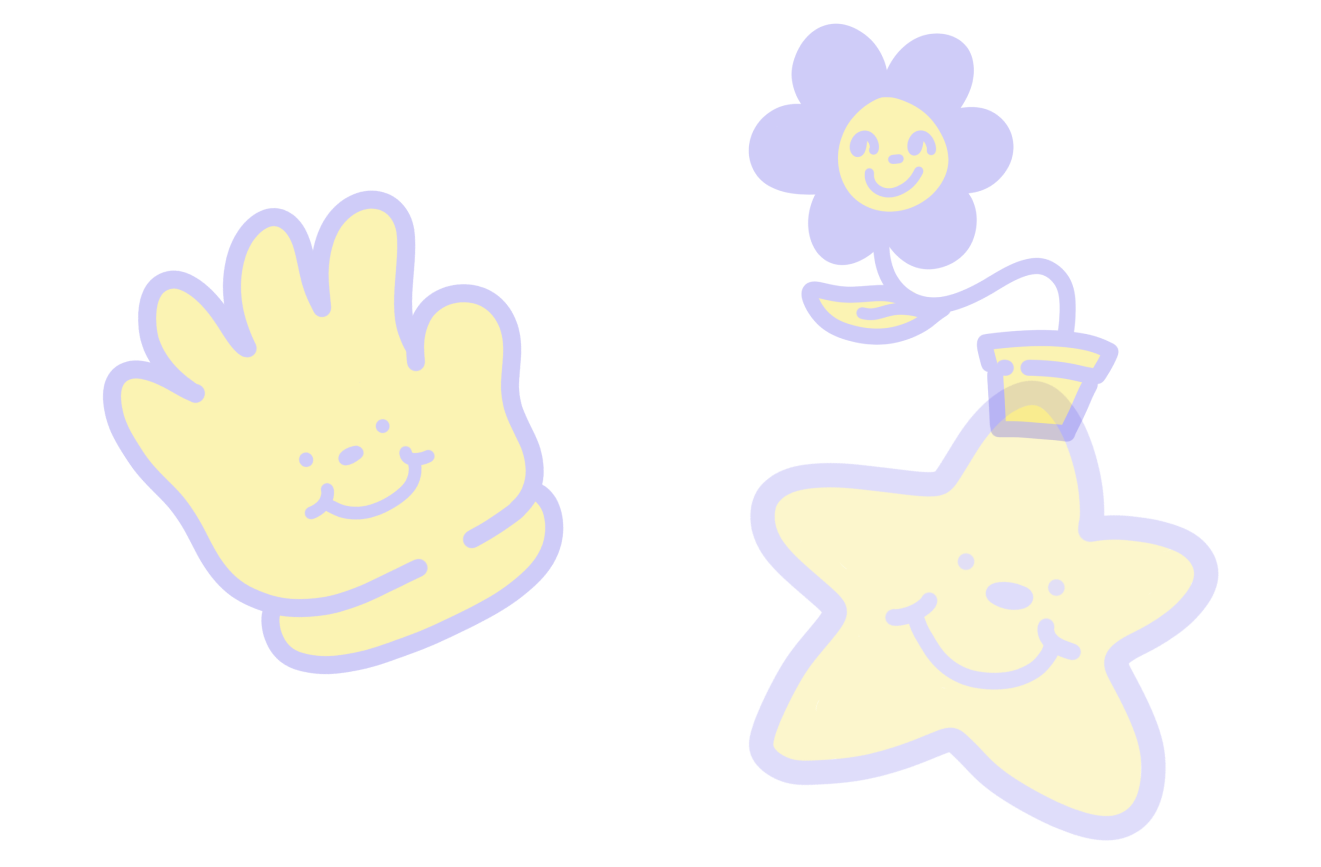
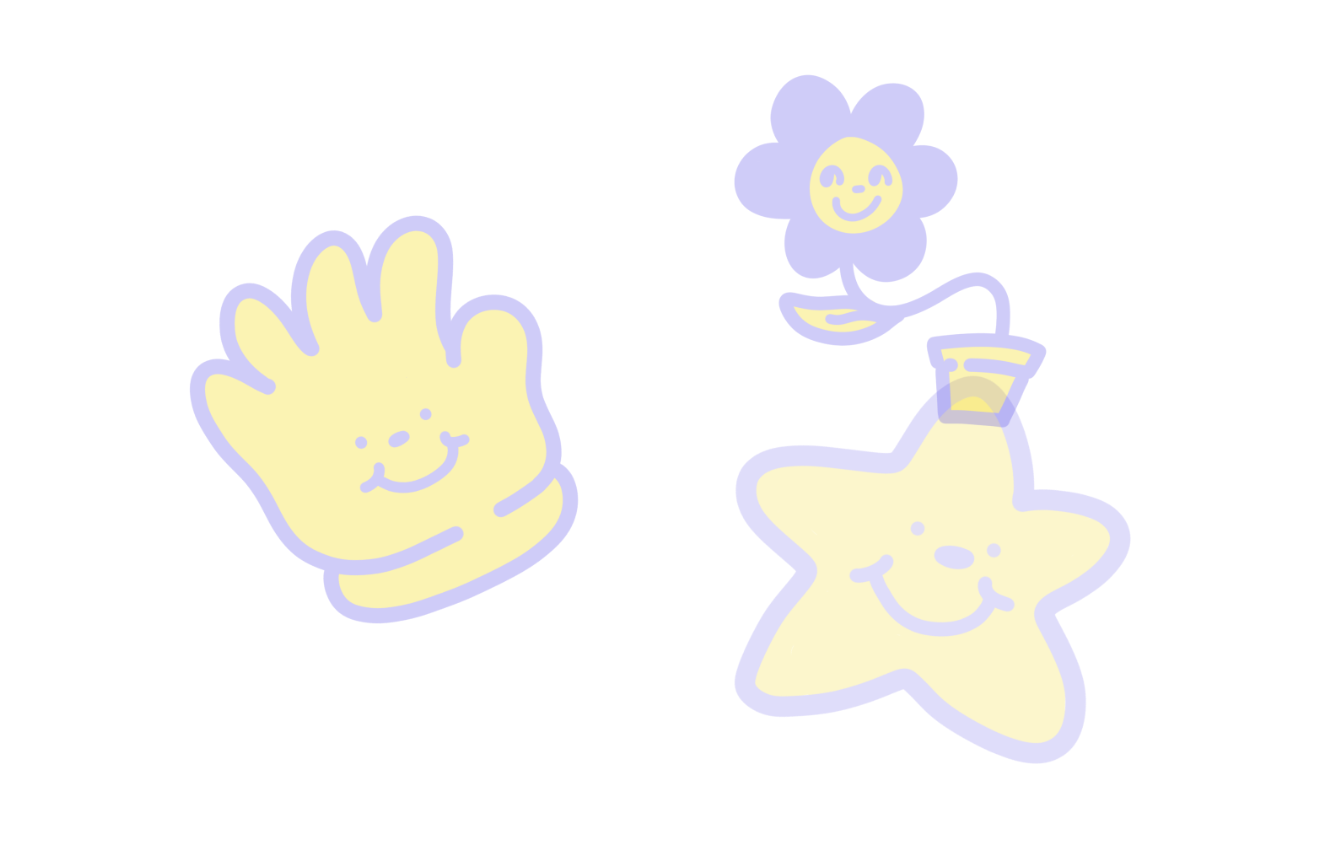
various updates, minor fixes

Changed region(s): [[0.5587, 0.0311, 0.9311, 0.9654], [0.0621, 0.218, 0.4345, 0.7785]]

diff --git a/src/Components/WI21/Articles/InterviewWithAmanda.css b/src/Components/WI21/Articles/InterviewWithAmanda.css
@@ -6,6 +6,7 @@
 
 .articleFont {
     font-family: Epilogue;
+    overflow: hidden;
 }
 .heart1{
     width: 100%;
@@ -32,7 +33,6 @@
 .testerDisc {
     max-width:75%;
     position:absolute;
-    margin-bottom:4rem;
 }
 .tester2 {
     background-image:url('../../../img/Issue3/flowerpot.png');
@@ -56,7 +56,6 @@
     z-index: 999;
     opacity: 17.5%;
     width: 35%;
-    height: 450%;
 }
 
 .star_background1{
@@ -180,6 +179,9 @@
     position:absolute;
 }
 @media (min-width:768px) {
+    .flower_background {
+        height: 80vh;
+    }
     .tinyImageBox {
         max-width:5%;
     }
@@ -237,6 +239,39 @@
     }
 }
 @media (max-width:767px) {
+    .flower_background {
+        height:50vh;
+        top: 15%;
+    }
+    .article_question1 {
+        font-size: .75rem !important;
+        font-weight: 900;
+        padding: 10px;
+        box-decoration-break: clone;
+        display: inline;
+        box-shadow: 0.25em 0 0 #EBD448, -0.25em 0 0 #EBD448;
+        background-color: #EBD448;
+        line-height: 3;
+        background-color: #EBD448;
+        color: #5F53E5;
+    }
+    .article_question2 {
+        font-size: .75rem !important;
+        background-color: #EBD448;
+        max-width: 80%;
+        padding: 10px;
+        color: #5F53E5;
+    }
+    .article_question3 {
+        font-size: .75rem !important;
+        padding: 10px;
+        box-decoration-break: clone;
+        display: inline;
+        box-shadow: 0.25em 0 0 #EBD448, -0.25em 0 0 #EBD448;
+        background-color: #EBD448;
+        line-height: 3;
+        color: #5F53E5;
+    }
     .rectangle_frame{
         position: absolute;
         top: 10% !important;
@@ -369,6 +404,7 @@
     padding-top:4rem;
     padding-bottom:4rem;
     color: white;
+    overflow: hidden;
 }
 .sixth_section {
     background: #FFFAF4;

diff --git a/src/Components/WI21/Articles/CommunityDesign.jsx b/src/Components/WI21/Articles/CommunityDesign.jsx
@@ -128,7 +128,7 @@ class CommunityDesign extends Component{
                                 <div className="linkDiskSecondary" 
                                     onMouseEnter={() => this.setDisc2(true)}
                                     onMouseLeave={() => this.setDisc2(false)}>
-                                    <img src={disc2} className="disc1" 
+                                    <img src={disc4} className="disc1" 
                                     />
                                     {this.state.showDisc2 && <Link to={{pathname: "/interview-with-amanda"}}><img src={smallArticle4} className="testerDisc"/></Link>}
                                 </div>
@@ -142,7 +142,7 @@ class CommunityDesign extends Component{
                                 <div className="linkDiskSecondary"
                                     onMouseEnter={() => this.setDisc4(true)}
                                     onMouseLeave={() => this.setDisc4(false)}>
-                                    <img src={disc4} className="disc1" 
+                                    <img src={disc3} className="disc1" 
                                     />
                                     {this.state.showDisc4 && <Link to={{pathname: "/EthicalDesign"}}><img src={smallArticle3} className="testerDisc"/></Link>}
                                 </div>

diff --git a/src/Components/WI21/Articles/InterviewWithAmanda.jsx b/src/Components/WI21/Articles/InterviewWithAmanda.jsx
@@ -151,7 +151,7 @@ class InterviewWithAmanda extends Component {
                                 </div>
                                 <div className="linkDiskSecondary" 
                                     onMouseEnter={() => this.setDisc2(true)}
-                                    onMouseLeave={() => this.setDisc2(false)}>
+                                   >
                                     <img src={disc2} className="disc1" 
                                     />
                                     {this.state.showDisc2 && <Link to={{pathname: "/CommunityDesign"}}><img src={smallArticle2} className="testerDisc"/></Link>}
@@ -166,7 +166,7 @@ class InterviewWithAmanda extends Component {
                                 <div className="linkDiskSecondary"
                                     onMouseEnter={() => this.setDisc4(true)}
                                     onMouseLeave={() => this.setDisc4(false)}>
-                                    <img src={disc4} className="disc1" 
+                                    <img src={disc3} className="disc1" 
                                     />
                                     {this.state.showDisc4 && <Link to={{pathname: "/EthicalDesign"}}><img src={smallArticle3} className="testerDisc"/></Link>}
                                 </div>

diff --git a/src/Components/WI21/Articles/EthicalDesign.jsx b/src/Components/WI21/Articles/EthicalDesign.jsx
@@ -177,7 +177,7 @@ class EthicalDesign extends Component {
                 </Row>
                 <Row className="introduction2 mobilePadding myTest">
                     <Col md={3}/>
-                    <Col md={1}><img src={glove} className="backgroundImageBox glove"/></Col>
+                    <Col md={1}><img src={glove} className="backgroundImageBox glove glove2"/></Col>
                     {/* Article Content Column   */}
                     <Col className="columnRight" xs={12} md={7}>
                         <Row className="articleText newQuestion">
@@ -234,7 +234,7 @@ class EthicalDesign extends Component {
                         </Row>
                     </Col>
                     {/* Seperator whitespace */}
-                    <Col md={1}><img src={cellphone} className="backgroundImageBox glove"/></Col>
+                    <Col md={1}><img src={cellphone} className="backgroundImageBox glove cellphone"/></Col>
                     {/* Article Content Column   */}
                     <Col className="columnRight" md={7}>
                         <Row className="articleText beginQuestion">

diff --git a/src/Components/WI21/Articles/EthicalDesign.css b/src/Components/WI21/Articles/EthicalDesign.css
@@ -13,8 +13,9 @@
 .testerDisc {
     max-width:75%;
     position:absolute;
-    margin-bottom:4rem;
+    padding-bottom:1rem;
 }
+
 .tester2 {
     background-image:url('../../../img/Issue3/flowerpot.png');
     background-size: cover;
@@ -33,7 +34,7 @@
     top: 0px;
     right: 0px;
     bottom: 0px;
-    left: 50%;
+    left: 45%;
     opacity: 17.5%;
     max-width: 100%;
 }
@@ -79,6 +80,16 @@
     position:absolute;
 }
 @media (min-width:768px) {
+    .flowerBackground {
+        height: 80vh;
+    }
+    .cellphone {
+        right: -5rem;
+        max-width: 250% !important;
+    }
+    .glove2 {
+        max-width: 150% !important;
+    }
     .tinyImageBox {
         max-width:5%;
     }
@@ -109,6 +120,22 @@
     }
 }
 @media (max-width:767px) {
+    .flowerBackground {
+        height:50vh;
+        top: 15%;
+    }
+    .starBackground {
+        height:50vh;
+        top:30%;
+        left: 15%;
+    }
+    .cellphone {
+        max-width: 50% !important;
+        top: -50%;
+    }
+    .glove2 {
+        top: -50%;
+    }
     .mobileHidden{
         visibility: hidden;
     }

diff --git a/src/Components/WI21/issue3_landing.jsx b/src/Components/WI21/issue3_landing.jsx
@@ -5,7 +5,7 @@ import { connect } from 'react-redux';
 import { setTheme } from '../../redux/actions';
 import './issue3_landing.css';
 import record_player from '../../../src/img/Issue3/record_player.png';
-import smallArticle1 from '../../../src/img/Issue3/smallArticle1.png';
+import smallArticle1 from '../../../src/img/Issue3/equitabledesigndisc2.png';
 import smallArticle2 from '../../../src/img/Issue3/smallArticle2.png';
 import smallArticle3 from '../../../src/img/Issue3/smallArticle3.png';
 import smallArticle4 from '../../../src/img/Issue3/smallArticle4.png';
@@ -29,7 +29,7 @@ class issue3_landing extends Component {
 
     render() {
         return (
-            <Container fluid className="articleFont">
+            <Container fluid className="art3Landing">
             <div className="issue3_background"/>
                 <Row>
                     <Col md={4} xs={12}>

diff --git a/src/Components/WI21/Articles/CommunityDesign.css b/src/Components/WI21/Articles/CommunityDesign.css
@@ -20,6 +20,7 @@
     background-color: black;
     padding-top: 3rem;
     padding-bottom: 3rem;
+    overflow: hidden;
 }
 
 .white_background{
@@ -122,21 +123,27 @@
     margin-left: auto;
     margin-right: auto;
 }
-
+@media (min-width:768px) {
+    .special {
+        font-size: 1.375rem;
+    }
+}
 @media (max-width:767px) {
     .center{
         text-align: left;
     }
     .special{
-        font-size: 1.5rem;
+        font-size: 1.5rem !important;
     }
     .community_design_font{
+        font-size:.75rem;
         padding-right: 2rem;
         padding-left: 2rem;
     }
     .community_design_font1{
         padding-right: 1rem;
         padding-left: 1rem;
+        font-size:.75rem;
     }
     .community_phone{
         left: 35%;

diff --git a/src/Components/WI21/Articles/EquitableDesign.jsx b/src/Components/WI21/Articles/EquitableDesign.jsx
@@ -150,7 +150,7 @@ class EquitableDesign extends Component {
                                 <div className="linkDiskSecondary"
                                     onMouseEnter={() => this.setDisc3(true)}
                                     onMouseLeave={() => this.setDisc3(false)}>
-                                    <img src={disc1} className="disc1" 
+                                    <img src={disc3} className="disc1" 
                                     />
                                     {this.state.showDisc3 && <Link to={{pathname: "/EthicalDesign"}}><img src={smallArticle3} className="testerDisc"/></Link>}
                                 </div>

diff --git a/src/Components/WI21/issue3_landing.css b/src/Components/WI21/issue3_landing.css
@@ -4,7 +4,11 @@
     -webkit-font-smoothing: antialiased;
     -moz-osx-font-smoothing: grayscale;
 }
+.art3Landing {
+    overflow: inherit;
+    font-family: Epilogue;
 
+}
 .issue3_background{
     background-image:url('../../img/Issue3/issue3_landing_background.png');
     background-size: cover;
@@ -15,6 +19,7 @@
     left: 0%;
     opacity: 100%;
     max-width: 100%;
+    height:120vh;
 }
 
 .issue3_landing{
@@ -76,7 +81,7 @@
 @media (max-width:767px) {
     .issue3_landing{
         left: 0%;
-        width: 95%;
+        width: 100%;
         padding: 1rem 1rem;
         padding-bottom: 0rem;
     }

diff --git a/src/Components/SP20/SP20.css b/src/Components/SP20/SP20.css
@@ -104,17 +104,17 @@
     }
     .stickerBox {
         position: absolute;
-        bottom: -30%;
+        bottom: -70%;
         left: 0%;
     }
     .stickerBox2 {
         position: absolute;
-        bottom: -30%;
+        bottom: -70%;
         left: 70%;
     }
     .stickerBox3 {
         position: absolute;
-        bottom: -30%;
+        bottom: -70%;
         left: 85%;
     }
     .stickerBox img {

diff --git a/src/Components/Issue_Cards/Issue3/Issue3.css b/src/Components/Issue_Cards/Issue3/Issue3.css
@@ -1,3 +1,6 @@
-.issue2cover {
+.issue3cover {
     max-width:100%;
+    padding-bottom: 5rem;
+    padding-top: 5rem;
+
 }
